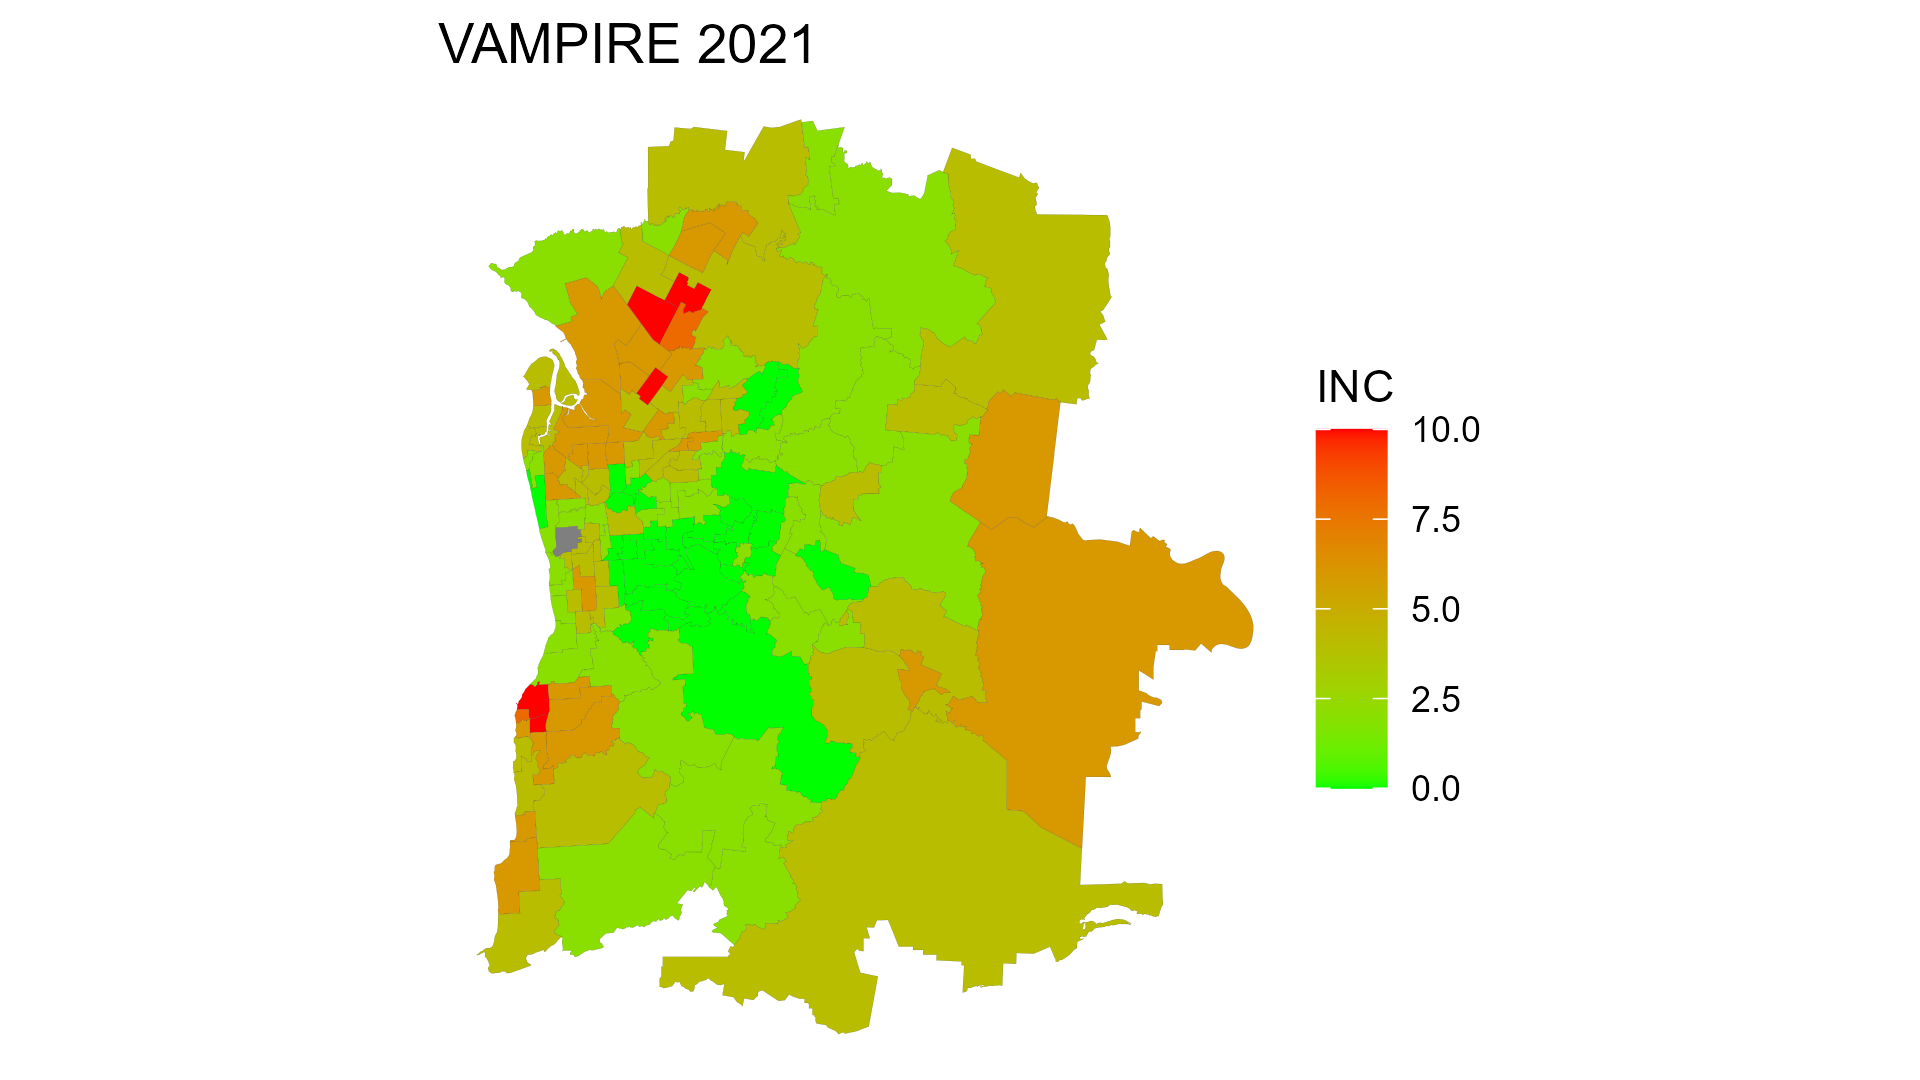
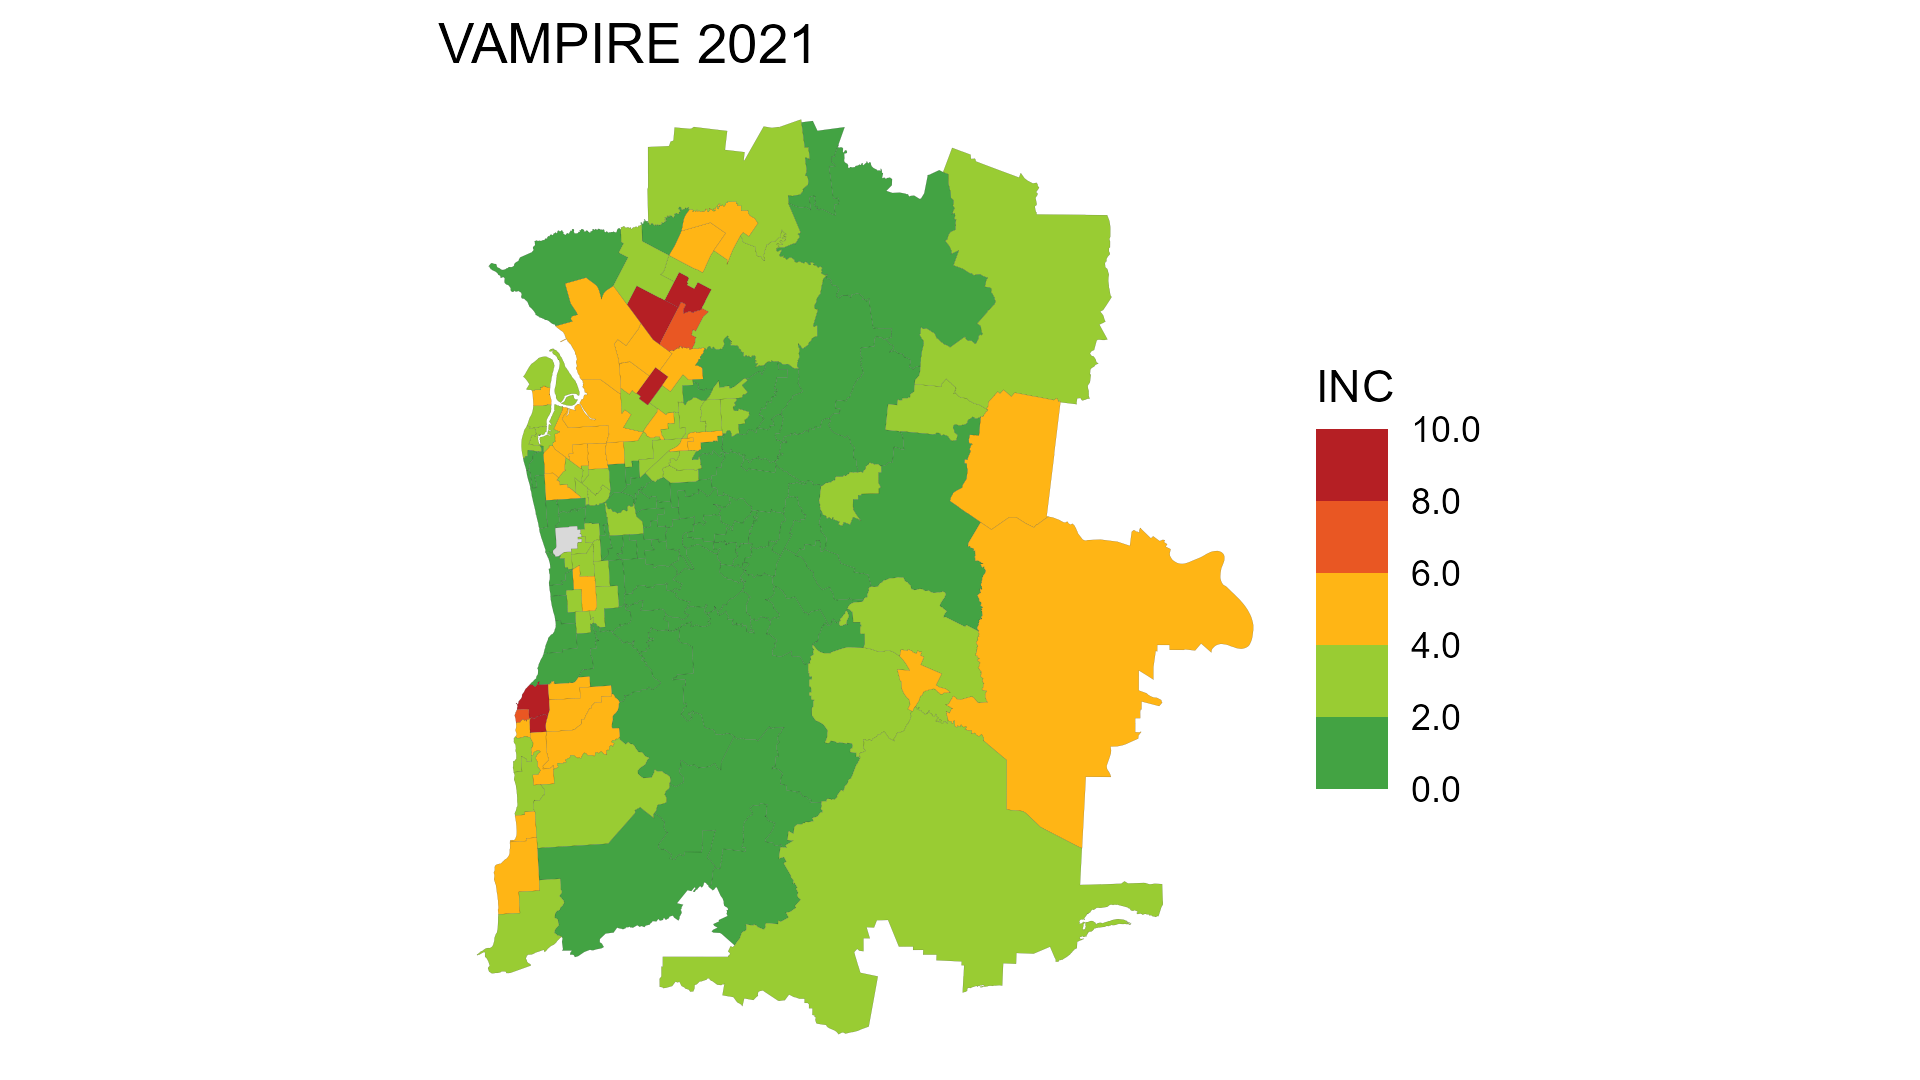
Update color scheme in maps

Changed region(s): [[0.25, 0.0917, 0.6562, 0.9778], [0.6875, 0.3972, 0.7812, 0.7333]]

diff --git a/README.md b/README.md
@@ -1,5 +1,6 @@
 # VAMPIRe
 Handover of code for auto-processing of data to generate the 2021 VAMPIRE and eVAMPIRE indexes for Adelaide,  posted on 27 September 2026.
+Code updated in November 2026 to change from colour gradient in maps to five specified colors
 
 ## Further information about the original and updated VAMPIRE indices will be added to this section
 
